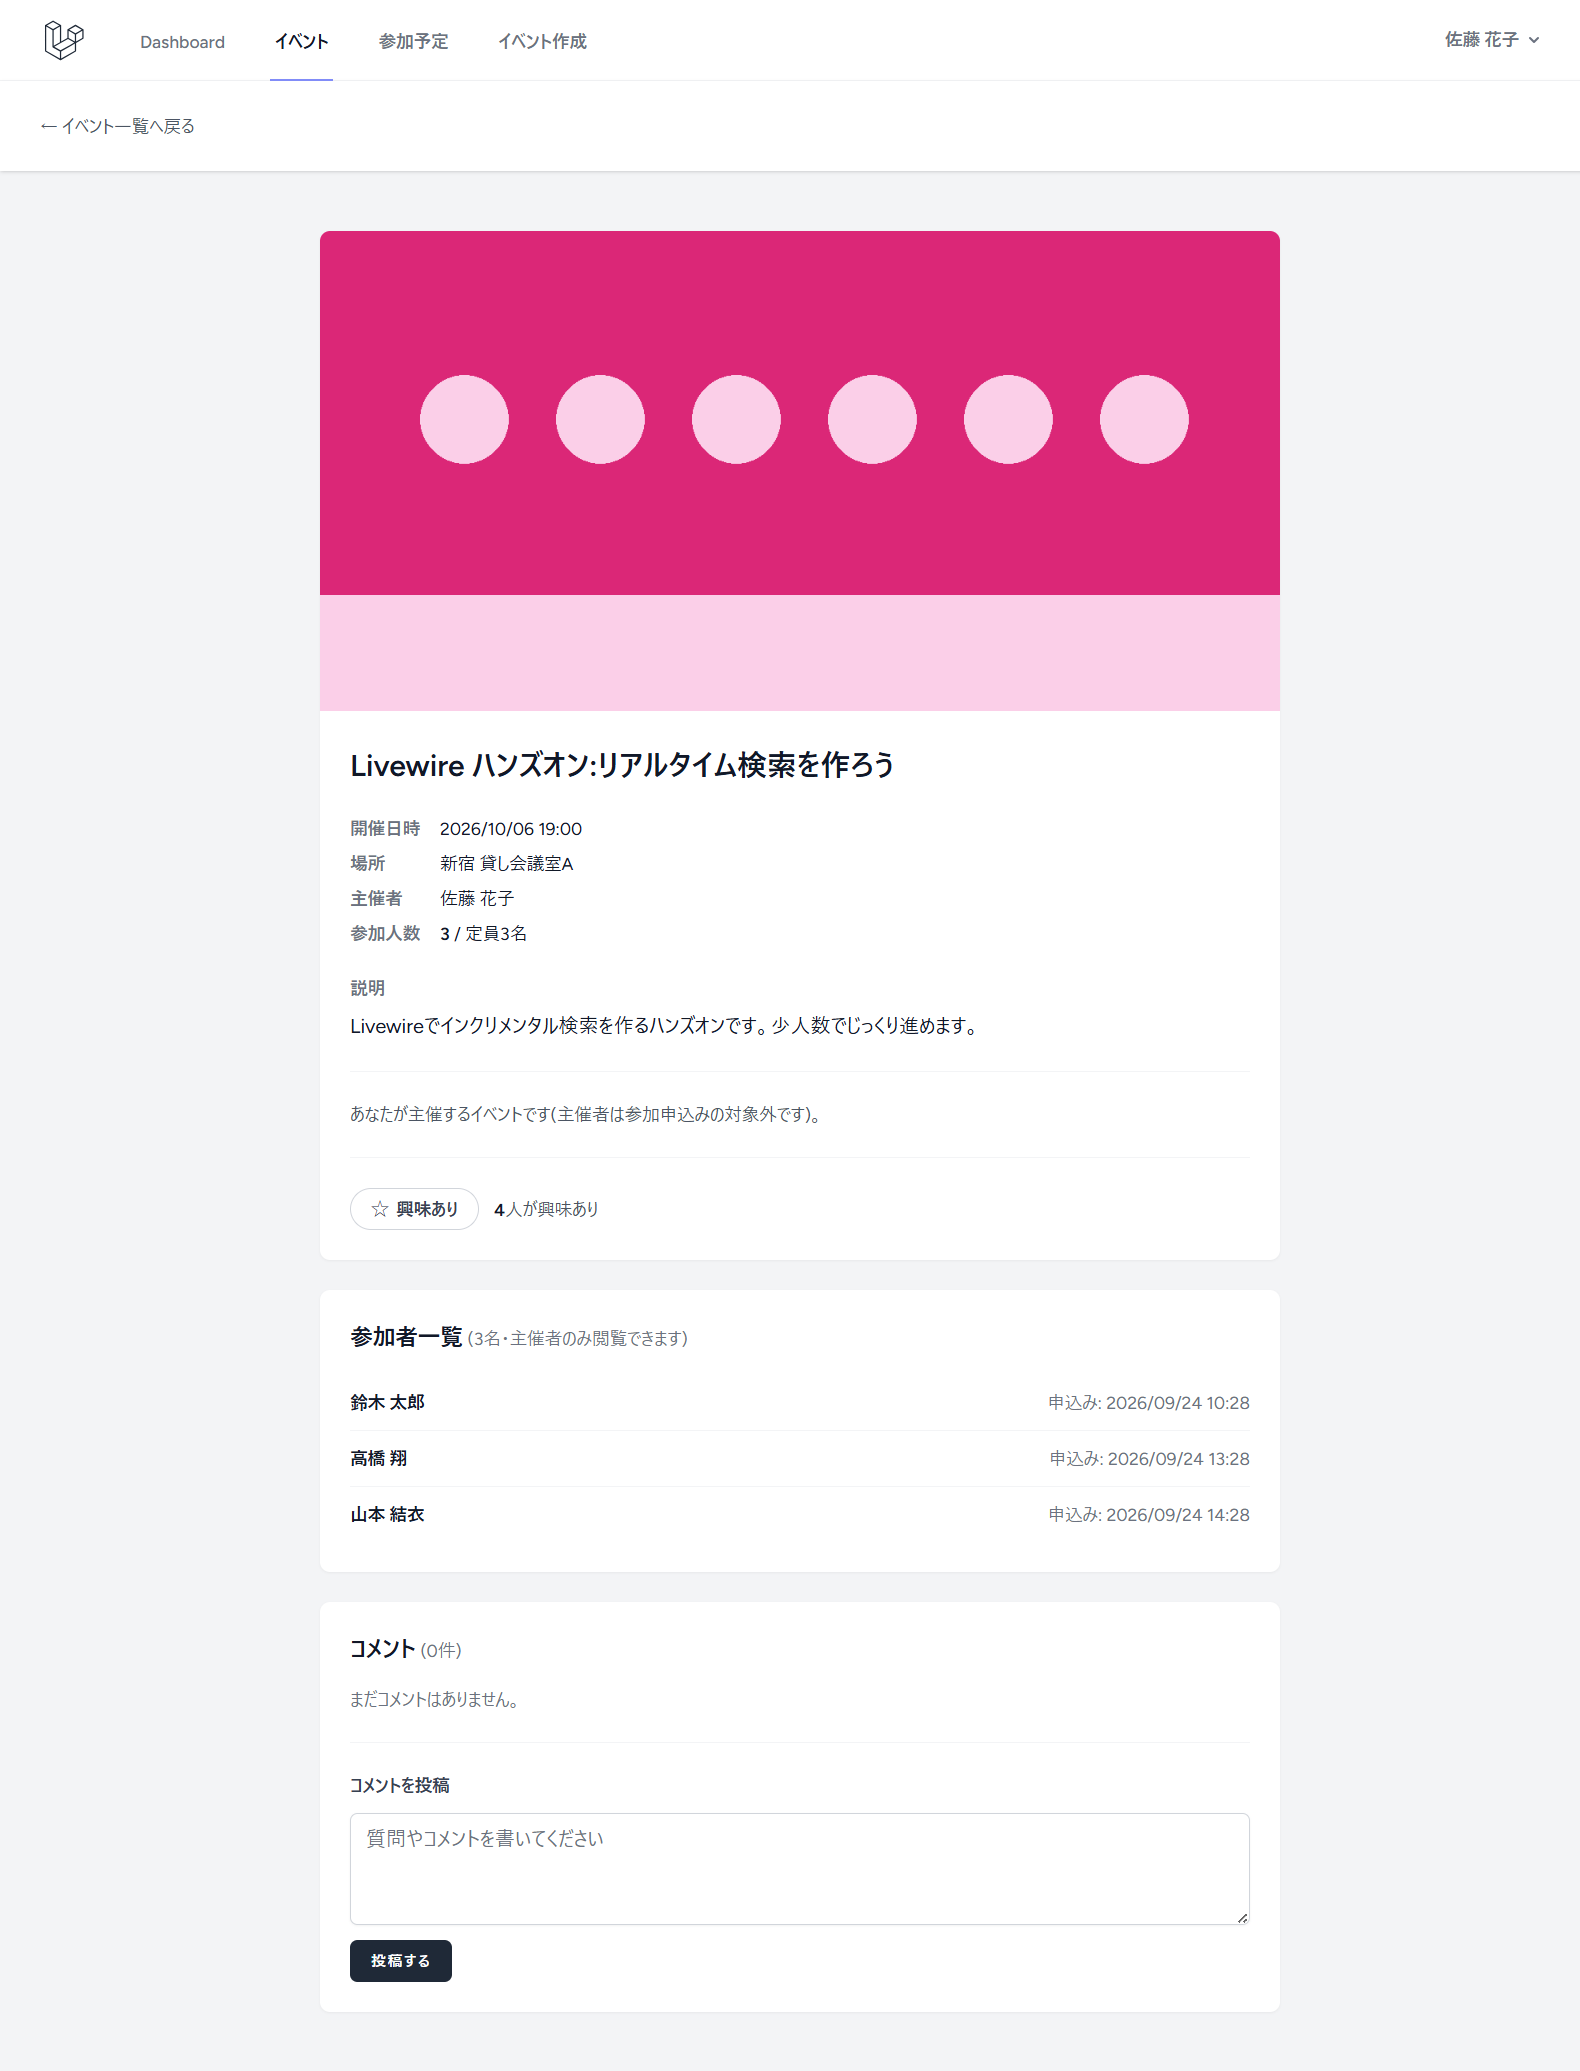
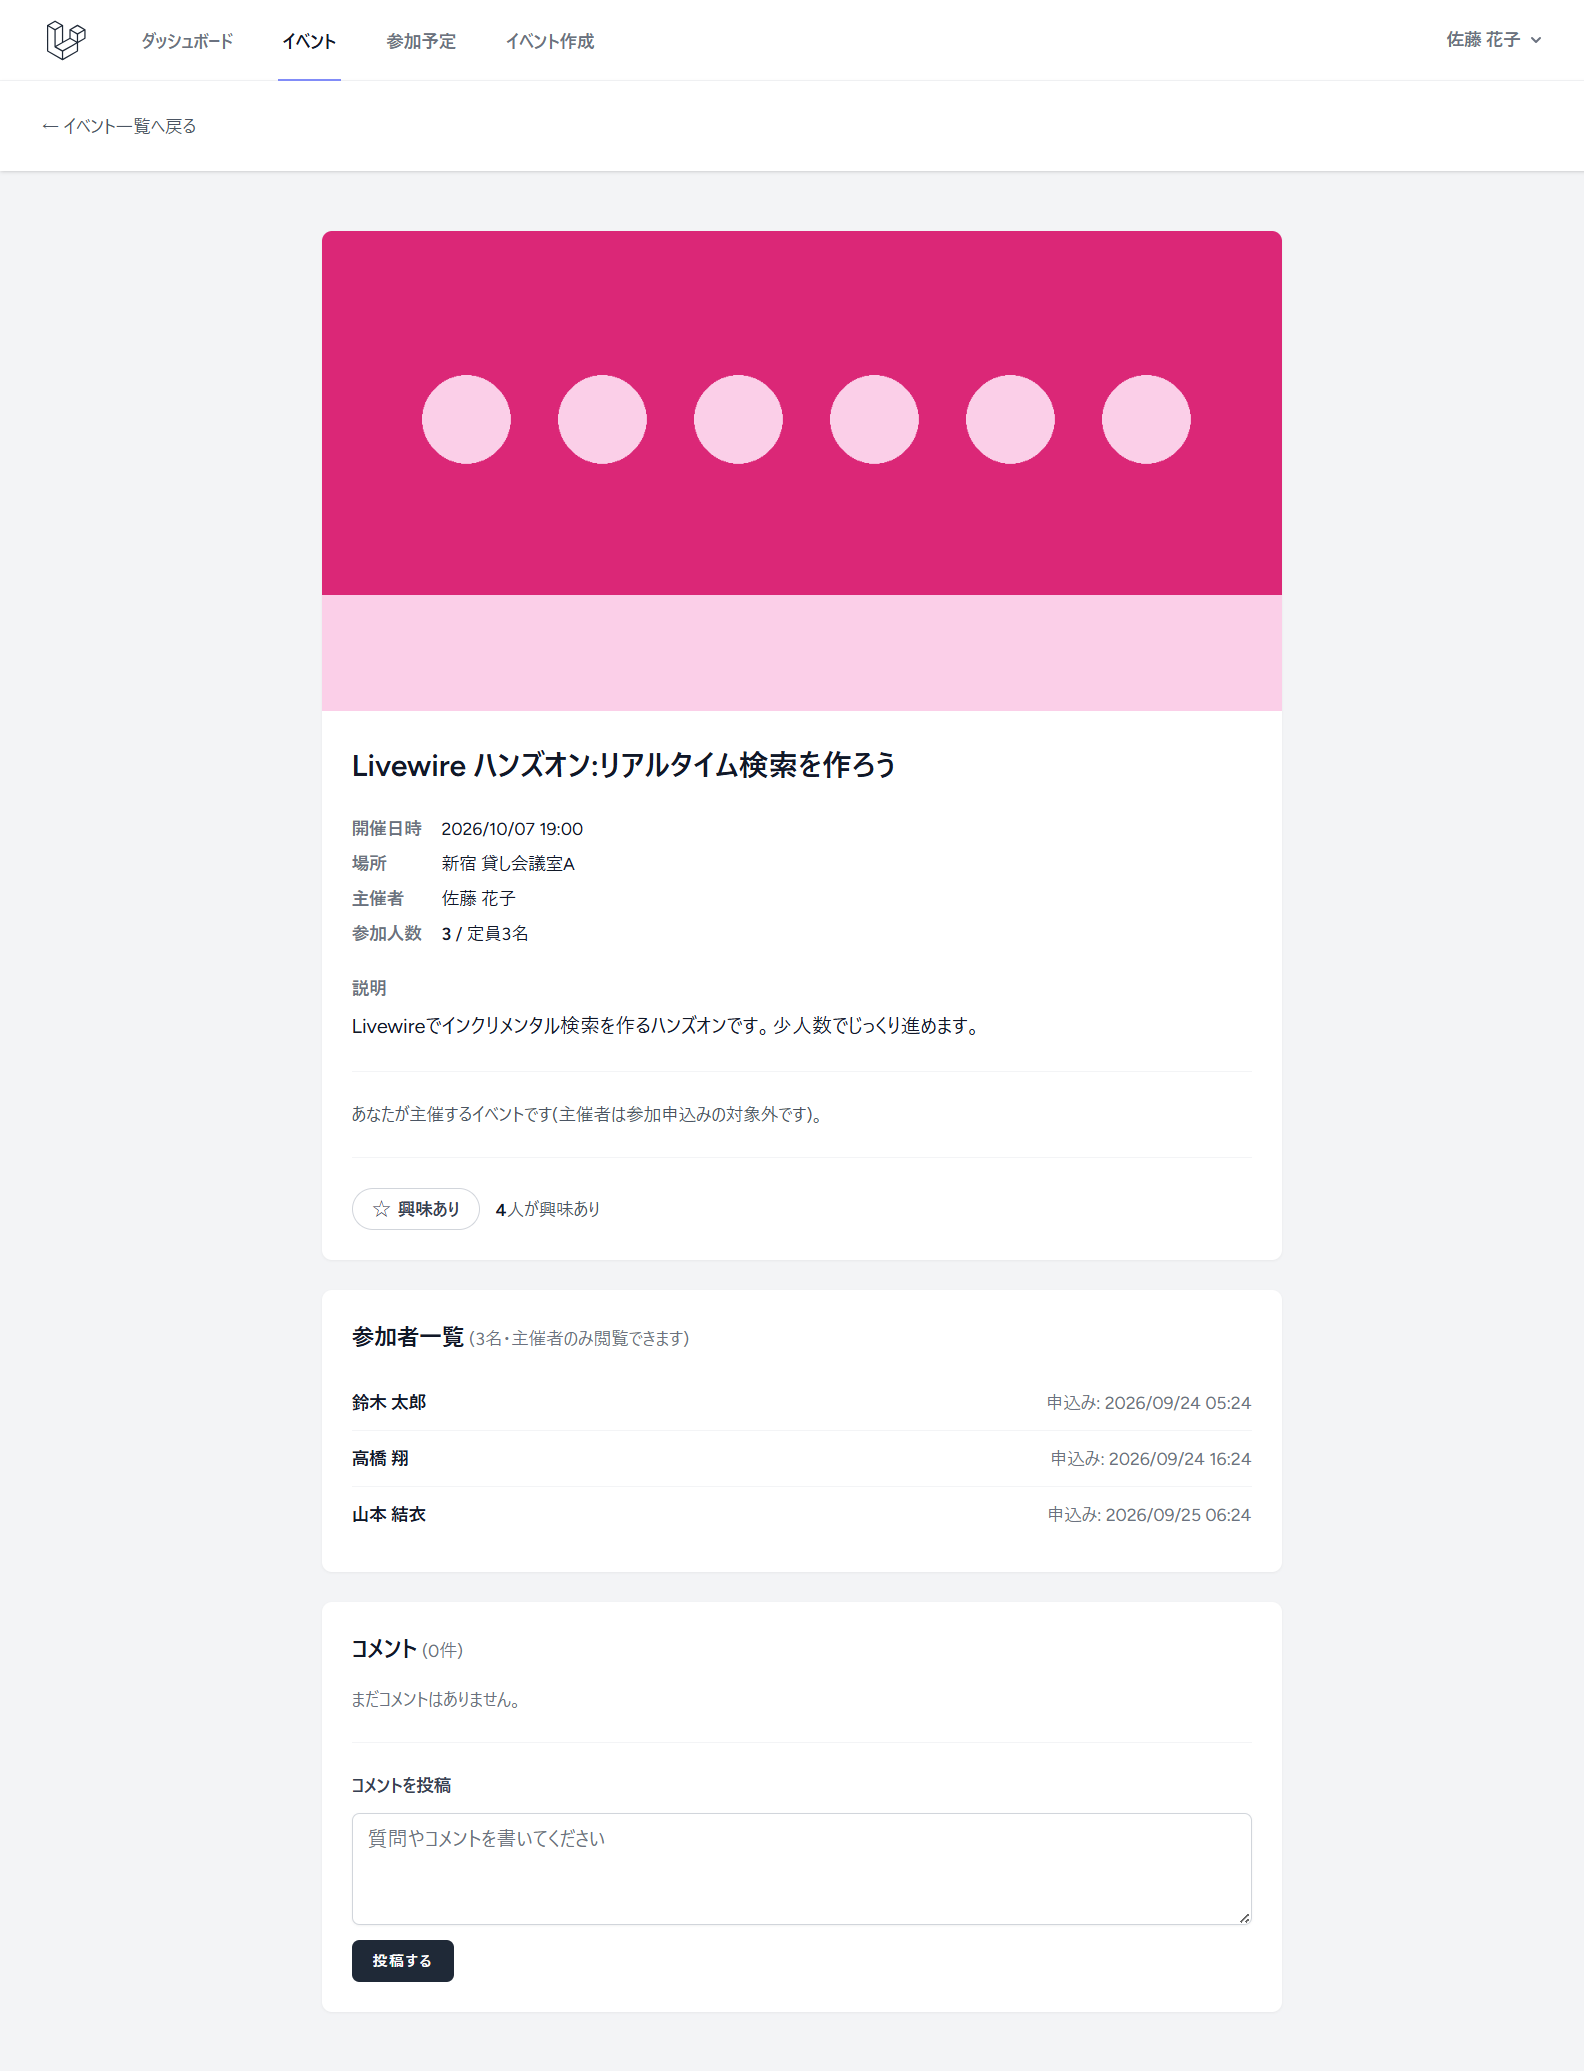
Breeze由来の英語表記の画面を日本語化(lang/ja.json・lang/ja/*.php、APP_LOCALE=ja)

diff --git a/tests/Feature/LocalizationTest.php b/tests/Feature/LocalizationTest.php
@@ -1,0 +1,69 @@
+<?php
+
+use App\Models\User;
+use Illuminate\Support\Facades\File;
+use Livewire\Volt\Volt;
+
+test('Breezeの画面で使っている英語の文言は、すべてlang/ja.jsonに訳がある', function () {
+    $translations = json_decode(File::get(lang_path('ja.json')), true, flags: JSON_THROW_ON_ERROR);
+
+    $keys = collect(File::allFiles(resource_path('views')))
+        ->flatMap(function (SplFileInfo $file) {
+            preg_match_all("/__\('([^']+)'\)/", File::get($file->getPathname()), $matches);
+
+            return $matches[1];
+        })
+        // auth.password 等の「ファイル名.キー」形式は lang/ja/*.php で翻訳する
+        ->reject(fn (string $key) => preg_match('/^[a-z]+\.[a-z_]+$/', $key) === 1)
+        ->unique();
+
+    expect($keys)->not->toBeEmpty();
+
+    foreach ($keys as $key) {
+        expect($translations)->toHaveKey($key);
+    }
+});
+
+test('ログイン画面が日本語で表示される', function () {
+    $this->get('/login')
+        ->assertOk()
+        ->assertSee('メールアドレス')
+        ->assertSee('パスワード')
+        ->assertSee('ログイン状態を保持する')
+        ->assertSee('パスワードをお忘れの方')
+        ->assertDontSee('Remember me');
+});
+
+test('登録画面が日本語で表示される', function () {
+    $this->get('/register')
+        ->assertOk()
+        ->assertSee('ユーザー名')
+        ->assertSee('表示名')
+        ->assertSee('パスワード(確認)')
+        ->assertSee('登録する')
+        ->assertSee('登録済みの方はこちら');
+});
+
+test('プロフィール編集画面(プロフィール情報・パスワード変更・退会)が日本語で表示される', function () {
+    $this->actingAs(User::factory()->create())
+        ->get('/profile')
+        ->assertOk()
+        ->assertSee('プロフィール編集')
+        ->assertSee('プロフィール情報')
+        ->assertSee('パスワードの変更')
+        ->assertSee('現在のパスワード')
+        ->assertSee('新しいパスワード')
+        ->assertSee('退会する')
+        ->assertDontSee('Update Password')
+        ->assertDontSee('Delete Account');
+});
+
+test('ログイン失敗時のメッセージが日本語で表示される', function () {
+    $user = User::factory()->create();
+
+    Volt::test('pages.auth.login')
+        ->set('form.email', $user->email)
+        ->set('form.password', 'wrong-password')
+        ->call('login')
+        ->assertHasErrors(['form.email' => 'メールアドレスまたはパスワードが正しくありません。']);
+});

diff --git a/lang/ja/passwords.php b/lang/ja/passwords.php
@@ -1,0 +1,10 @@
+<?php
+
+// パスワード再設定のメッセージ(Laravel標準の lang/en/passwords.php の日本語訳)
+return [
+    'reset' => 'パスワードを再設定しました。',
+    'sent' => 'パスワード再設定用のリンクをメールで送信しました。',
+    'throttled' => 'しばらく時間をおいてから再度お試しください。',
+    'token' => 'このパスワード再設定用のリンクは無効です。',
+    'user' => 'このメールアドレスのユーザーは見つかりません。',
+];

diff --git a/tests/Browser/AccessibilityTest.php b/tests/Browser/AccessibilityTest.php
@@ -26,13 +26,13 @@ test('トップページ', function () {
 
 test('ログイン画面', function () {
     visit('/login')
-        ->assertSee('Log in')
+        ->assertSee('ログイン状態を保持する')
         ->assertNoAccessibilityIssues(ALL_ACCESSIBILITY_ISSUES);
 });
 
 test('登録画面', function () {
     visit('/register')
-        ->assertSee('Register')
+        ->assertSee('登録する')
         ->assertNoAccessibilityIssues(ALL_ACCESSIBILITY_ISSUES);
 });
 

diff --git a/lang/ja/auth.php b/lang/ja/auth.php
@@ -1,0 +1,8 @@
+<?php
+
+// 認証まわりのメッセージ(Laravel標準の lang/en/auth.php の日本語訳)
+return [
+    'failed' => 'メールアドレスまたはパスワードが正しくありません。',
+    'password' => 'パスワードが正しくありません。',
+    'throttle' => 'ログインの試行回数が多すぎます。:seconds秒後に再度お試しください。',
+];

diff --git a/lang/ja/pagination.php b/lang/ja/pagination.php
@@ -1,0 +1,7 @@
+<?php
+
+// ページネーションの前へ・次へ(Laravel標準の lang/en/pagination.php の日本語訳)
+return [
+    'previous' => '&laquo; 前へ',
+    'next' => '次へ &raquo;',
+];

diff --git a/docs/infrastructure.md b/docs/infrastructure.md
@@ -118,6 +118,7 @@ ECSタスク定義で設定する(`infra/production/ecs.tf`の`app_environment`)
 |---|---|---|
 | `APP_ENV` / `APP_DEBUG` | `production` / `false` | エラー画面に詳細を出さない |
 | `APP_URL` | `https://<CloudFrontのドメイン>` | `https://`のため、URLは常にhttpsで生成される |
+| `APP_LOCALE` | `ja` | 画面の文言(Breeze由来の画面・認証メッセージ・ページネーション)を日本語にする(`lang/ja.json`・`lang/ja/*.php`)。ローカルの`.env.example`も`ja` |
 | `APP_KEY` | (Secrets Manager) | |
 | `LOG_CHANNEL` / `LOG_LEVEL` | `json_stderr` / `info` | 構造化ログを標準エラー出力へ出し、awslogsドライバでCloudWatch Logsに集約する([observability.md](./observability.md)) |
 | `DB_HOST`等 / `DB_PASSWORD` | RDSのエンドポイント / (Secrets Manager) | RDS(PostgreSQL 17)は既定でSSL接続を必須とするが、Laravelの既定(`sslmode=prefer`)でSSL接続される |
